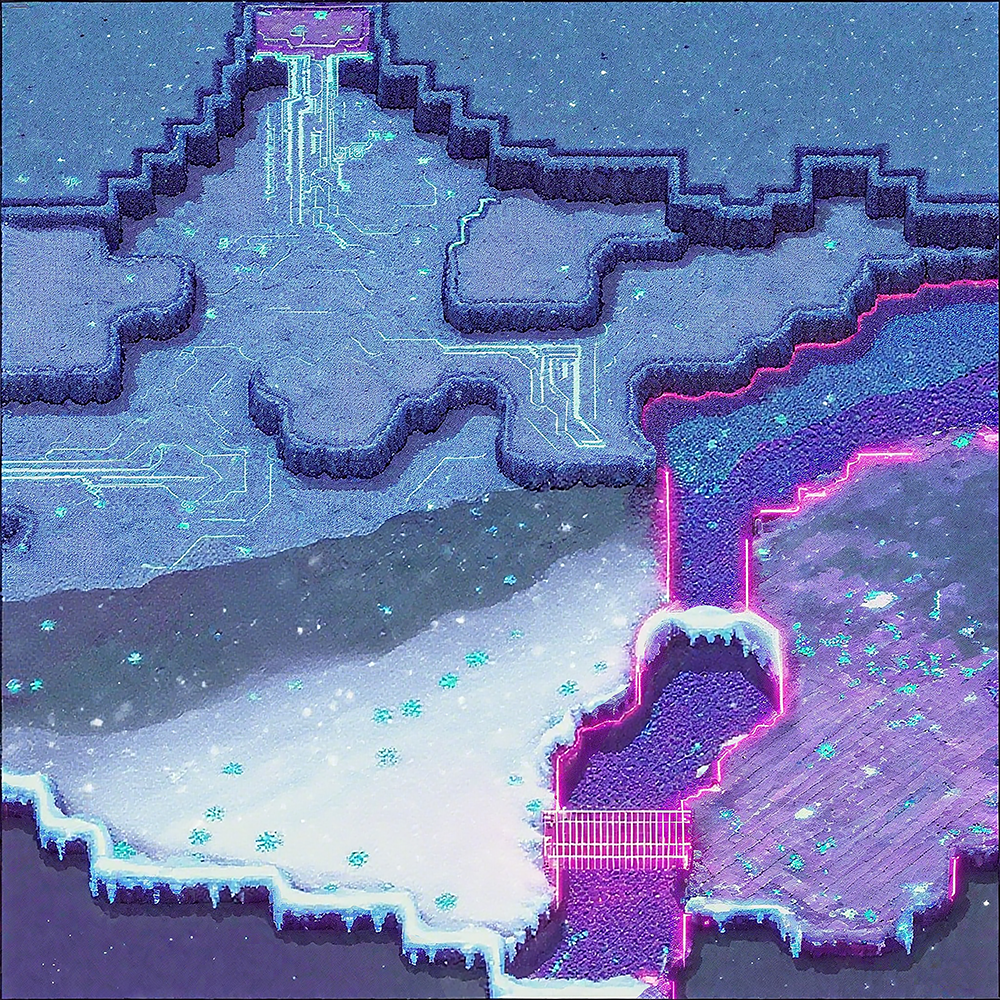
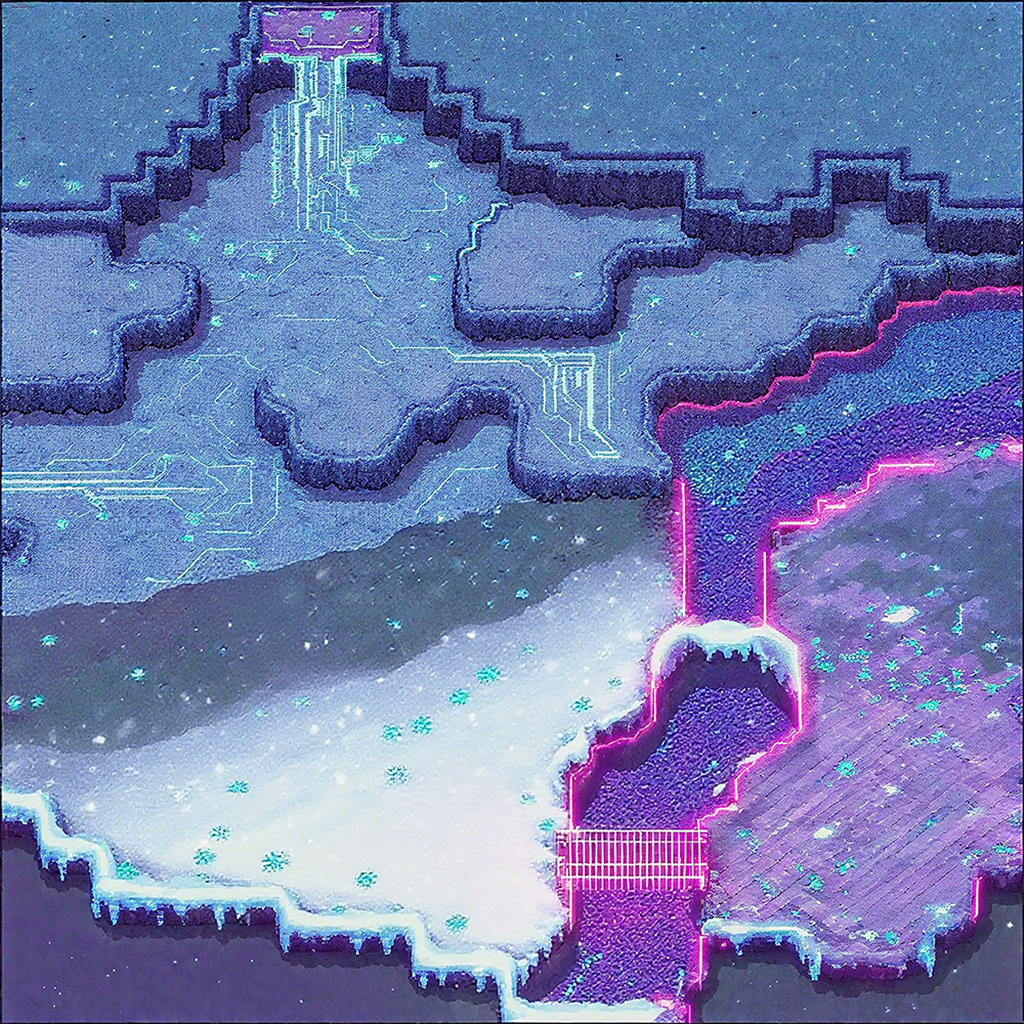
fix map size

diff --git a/source/core/src/main/com/csse3200/game/areas/terrain/TerrainFactory.java b/source/core/src/main/com/csse3200/game/areas/terrain/TerrainFactory.java
@@ -11,12 +11,11 @@ import com.badlogic.gdx.maps.tiled.renderers.OrthogonalTiledMapRenderer;
 import com.badlogic.gdx.math.GridPoint2;
 import com.csse3200.game.areas.terrain.TerrainComponent.TerrainOrientation;
 import com.csse3200.game.components.CameraComponent;
-import com.csse3200.game.services.ResourceService;
 import com.csse3200.game.services.ServiceLocator;
 
 /** Factory for creating game terrains. */
 public class TerrainFactory {
-  private static final GridPoint2 MAP_SIZE = new GridPoint2(31, 30);
+  private static final GridPoint2 MAP_SIZE = new GridPoint2(32, 32);
 
   private final OrthographicCamera camera;
   private final TerrainOrientation orientation;
@@ -59,8 +58,13 @@ public class TerrainFactory {
 
   // A simplified terrain creation method (with only mmap layers)简化的地形创建方法（只有 mmap 图层）
   private TerrainComponent createForestDemoTerrain(float tileWorldSize) {
-    GridPoint2 tilePixelSize = new GridPoint2(32, 32);
-    TiledMap tiledMap = createForestDemoTiles(tilePixelSize);
+    // 根据mmap原始尺寸与MAP_SIZE计算每格像素尺寸，确保贴图严格覆盖31x30格
+    Texture mmapTex = ServiceLocator.getResourceService().getAsset("images/mmap.png", Texture.class);
+    int tilePixelW = Math.max(1, Math.round((float) mmapTex.getWidth() / MAP_SIZE.x));
+    int tilePixelH = Math.max(1, Math.round((float) mmapTex.getHeight() / MAP_SIZE.y));
+    GridPoint2 tilePixelSize = new GridPoint2(tilePixelW, tilePixelH);
+
+    TiledMap tiledMap = createForestDemoTiles(tilePixelSize, mmapTex);
     TiledMapRenderer renderer = createRenderer(tiledMap, tileWorldSize / tilePixelSize.x);
     return new TerrainComponent(camera, tiledMap, renderer, orientation, tileWorldSize);
   }
@@ -75,13 +79,12 @@ public class TerrainFactory {
   }
 
   // Create a map with only mmap layers只包含 mmap 图层的地图
-  private TiledMap createForestDemoTiles(GridPoint2 tileSize) {
+  private TiledMap createForestDemoTiles(GridPoint2 tileSize, Texture mmapTex) {
     TiledMap tiledMap = new TiledMap();
     TiledMapTileLayer dummyLayer =
         new TiledMapTileLayer(MAP_SIZE.x, MAP_SIZE.y, tileSize.x, tileSize.y);
     tiledMap.getLayers().add(dummyLayer);
 
-    Texture mmapTex = ServiceLocator.getResourceService().getAsset("images/mmap.png", Texture.class);
     mmapTex.setFilter(Texture.TextureFilter.Nearest, Texture.TextureFilter.Nearest);
     TiledMapImageLayer mmapLayer = new TiledMapImageLayer(new TextureRegion(mmapTex), 0, 0);
     mmapLayer.setName("mmap");
